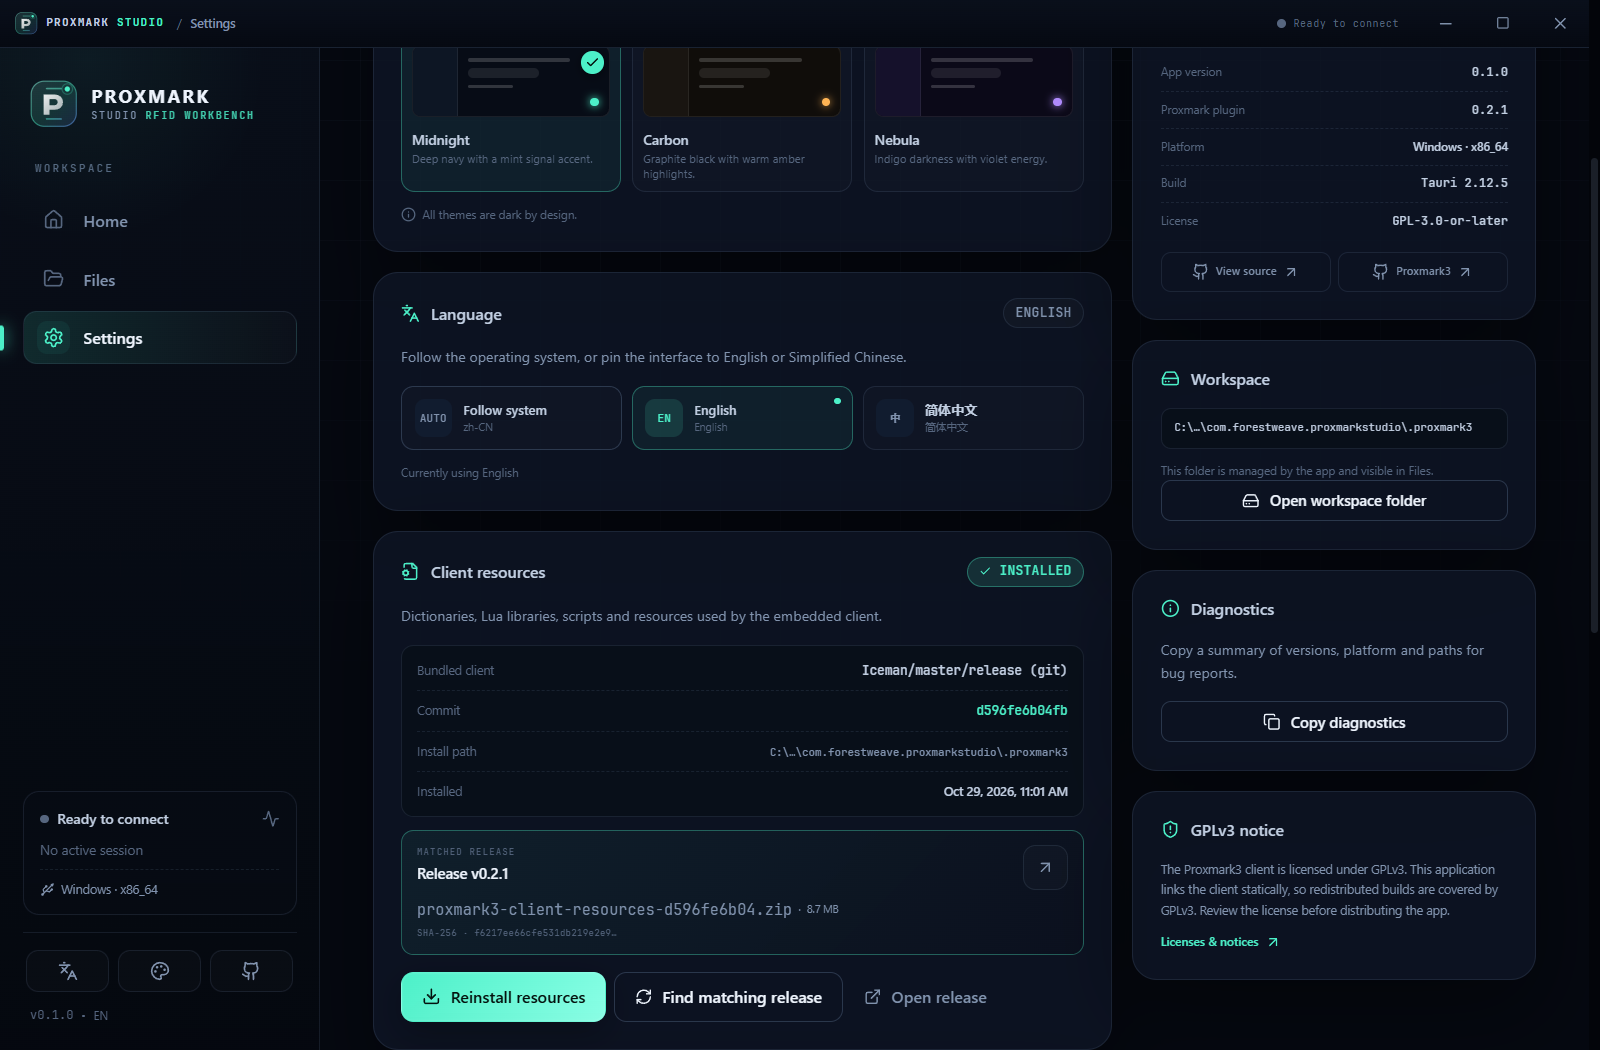
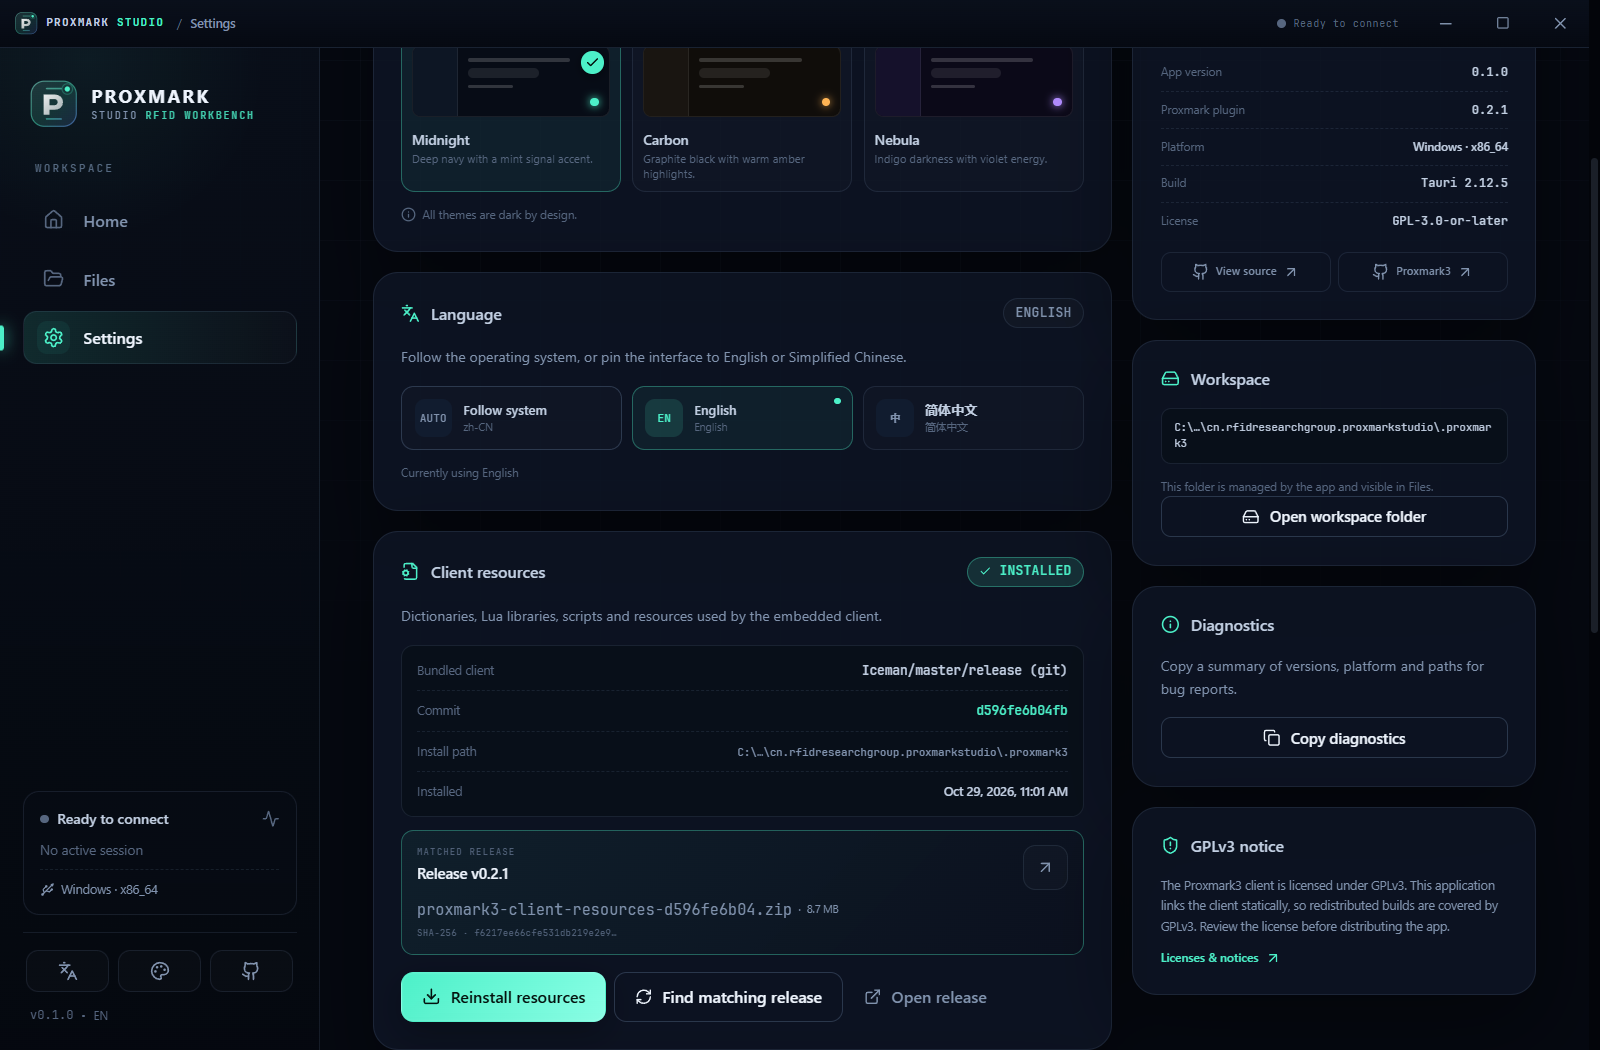
chore: use cn.rfidresearchgroup package identifier

diff --git a/src/views/HomeView.vue b/src/views/HomeView.vue
@@ -56,7 +56,6 @@ const toast = useToastStore()
 const method = ref<Method>('usb')
 const selectedUsb = ref('')
 const selectedSpp = ref('')
-const sppMac = ref('')
 const bleDevices = ref<BleDeviceInfo[]>([])
 const selectedBle = ref<BleDeviceInfo | null>(null)
 const scanning = ref(false)
@@ -101,7 +100,6 @@ const methods = computed(() => [
   },
 ])
 
-const isLinux = computed(() => platform.info.os === 'linux')
 const isConnected = computed(() => connection.isConnected)
 const connecting = computed(() => connection.status === 'connecting' && !connection.isConnected)
 const scanBusy = computed(() => scanning.value || connection.status === 'connecting')
@@ -134,12 +132,7 @@ const heroStateClass = computed(() => {
 
 const selectedPortValid = computed(() => {
   if (method.value === 'usb') return Boolean(selectedUsb.value)
-  if (method.value === 'spp') {
-    if (isLinux.value && sppMac.value.trim()) {
-      return /^([0-9a-fA-F]{2}:){5}[0-9a-fA-F]{2}$/.test(sppMac.value.trim())
-    }
-    return Boolean(selectedSpp.value)
-  }
+  if (method.value === 'spp') return Boolean(selectedSpp.value)
   return Boolean(selectedBle.value)
 })
 
@@ -253,11 +246,7 @@ async function connect() {
         : undefined
       await connection.connectBle(selectedBle.value, config)
     } else if (method.value === 'spp') {
-      if (isLinux.value && sppMac.value.trim()) {
-        await connection.connectSppMac(sppMac.value.trim().toUpperCase())
-      } else {
-        await connection.connectSpp(selectedSpp.value)
-      }
+      await connection.connectSpp(selectedSpp.value)
     }
   } catch {
     /* the store reports a toast and keeps lastError */
@@ -651,7 +640,7 @@ onUnmounted(() => {
                   :key="port.path"
                   class="device-option"
                   :class="{ 'device-option--selected': selectedSpp === port.path }"
-                  @click="selectedSpp = port.path; sppMac = ''"
+                  @click="selectedSpp = port.path"
                 >
                   <span class="device-option__icon device-option__icon--ble"><Bluetooth :size="17" /></span>
                   <span class="device-option__main">
@@ -672,19 +661,6 @@ onUnmounted(() => {
                 </div>
               </div>
 
-              <div v-if="isLinux" class="spp-mac">
-                <div class="spp-mac__label">
-                  <span class="mono">{{ settings.t('home.sppMac') }}</span>
-                  <span>{{ settings.t('home.sppMacHint') }}</span>
-                </div>
-                <input
-                  v-model="sppMac"
-                  class="input input--mono"
-                  :placeholder="settings.t('home.sppMacPlaceholder')"
-                  spellcheck="false"
-                  @input="selectedSpp = ''"
-                />
-              </div>
             </template>
 
             <footer v-if="methods.find((entry) => entry.id === method)?.available" class="connect-panel__foot">

diff --git a/src/i18n/en.ts b/src/i18n/en.ts
@@ -110,14 +110,11 @@ export const en = {
   'home.bleTx': 'Notify characteristic',
   'home.bleAuto': 'Auto-detect',
   'home.sppTitle': 'Bluetooth SPP',
-  'home.sppHint': 'Use a paired Bluetooth serial device, or connect through a BlueZ address on Linux.',
+  'home.sppHint': 'Use a paired Bluetooth serial device exposed as a COM / rfcomm port.',
   'home.sppEmpty': 'No paired serial devices',
   'home.sppEmptyHint': 'Pair the Proxmark in your system Bluetooth settings, then rescan.',
   'home.sppUnsupported': 'Bluetooth SPP is not available on this platform.',
   'home.sppUnsupportedBody': 'iOS does not expose the serial port profile to third-party apps, and this build has no SPP backend for this platform.',
-  'home.sppMac': 'BlueZ address',
-  'home.sppMacPlaceholder': 'AA:BB:CC:DD:EE:FF',
-  'home.sppMacHint': 'Linux only. The client connects directly through BlueZ.',
   'home.port': 'Port',
   'home.connect': 'Connect device',
   'home.disconnect': 'Disconnect',
@@ -168,7 +165,6 @@ export const en = {
   'home.paired': 'Paired',
   'home.bleBridge': 'BLE → TCP bridge',
   'home.bleBridgeNote': 'The client talks to a loopback bridge; BLE frames are forwarded transparently.',
-  'home.sppDirect': 'BlueZ transport',
   'home.deviceSummary': 'Session overview',
   'home.uptime': 'Connected for {time}',
   'home.noSession': 'Session details appear here once a device is connected.',

diff --git a/src/i18n/zh.ts b/src/i18n/zh.ts
@@ -117,9 +117,6 @@ export const zh: Record<TranslationKey, string> = {
   'home.sppEmptyHint': '请先在系统蓝牙设置中配对 Proxmark，然后重新扫描。',
   'home.sppUnsupported': '当前平台不支持蓝牙 SPP。',
   'home.sppUnsupportedBody': 'iOS 不向第三方应用开放串口协议，而此构建在当前平台也没有 SPP 后端。',
-  'home.sppMac': 'BlueZ 地址',
-  'home.sppMacPlaceholder': 'AA:BB:CC:DD:EE:FF',
-  'home.sppMacHint': '仅 Linux 可用，客户端会通过 BlueZ 直接连接。',
   'home.port': '端口',
   'home.connect': '连接设备',
   'home.disconnect': '断开连接',
@@ -170,7 +167,6 @@ export const zh: Record<TranslationKey, string> = {
   'home.paired': '已配对',
   'home.bleBridge': 'BLE → TCP 桥接',
   'home.bleBridgeNote': '客户端连接本地回环桥接，BLE 数据帧会被透明转发。',
-  'home.sppDirect': 'BlueZ 传输',
   'home.deviceSummary': '会话概览',
   'home.uptime': '已连接 {time}',
   'home.noSession': '连接设备后将在这里显示会话详情。',

diff --git a/src/stores/connection.ts b/src/stores/connection.ts
@@ -218,18 +218,6 @@ export const useConnectionStore = defineStore('connection', () => {
     }
   }
 
-  async function connectSppMac(mac: string) {
-    lastBleDevice.value = null
-    try {
-      const info = await openSession(`bt:${mac}`, 'spp', `SPP · ${mac}`)
-      toast.success(settings.t('home.connectedToast', { port: mac }))
-      return info
-    } catch (error) {
-      toast.error(settings.t('home.connectionFailed'), errorMessage(error))
-      throw error
-    }
-  }
-
   async function connectBle(bleDevice: BleDeviceInfo, config?: BleUartConfig) {
     if (isConnected.value) await disconnect()
     status.value = 'connecting'
@@ -351,7 +339,6 @@ export const useConnectionStore = defineStore('connection', () => {
     probeDevice,
     connectUsb,
     connectSpp,
-    connectSppMac,
     connectBle,
     disconnect,
     reconnect,

diff --git a/src/App.vue b/src/App.vue
@@ -10,10 +10,14 @@ import { isTauri } from '@/services/backend'
 
 const platform = usePlatformStore()
 const connection = useConnectionStore()
+const mobileUserAgent =
+  typeof navigator !== 'undefined' && /Android|iPhone|iPad|iPod/i.test(navigator.userAgent)
 
 // The window is frameless on desktop, so we draw our own chrome. Mobile
 // platforms have no decorations to replace and keep their full height.
-const frameless = computed(() => isTauri && platform.info.family === 'desktop')
+const frameless = computed(
+  () => isTauri && !mobileUserAgent && platform.info.family === 'desktop',
+)
 
 watchEffect(() => {
   if (typeof document === 'undefined') return

diff --git a/src/services/mockBackend.ts b/src/services/mockBackend.ts
@@ -11,7 +11,7 @@ import type {
   SerialPortInfo,
 } from './backend'
 
-const MOCK_ROOT = 'C:\\Users\\rfid\\AppData\\Roaming\\com.forestweave.proxmarkstudio\\.proxmark3'
+const MOCK_ROOT = 'C:\\Users\\rfid\\AppData\\Roaming\\cn.rfidresearchgroup.proxmarkstudio\\.proxmark3'
 const RELEASE_TAG = 'v0.2.1'
 const EXPECTED_COMMIT = 'd596fe6b04fb90356f04433eb82ff1ae354ada40'
 

diff --git a/src/components/ResizeHandles.vue b/src/components/ResizeHandles.vue
@@ -1,5 +1,15 @@
 <script setup lang="ts">
-import { getCurrentWindow, type ResizeDirection } from '@tauri-apps/api/window'
+import { getCurrentWindow } from '@tauri-apps/api/window'
+
+type ResizeDirection =
+  | 'East'
+  | 'North'
+  | 'NorthEast'
+  | 'NorthWest'
+  | 'South'
+  | 'SouthEast'
+  | 'SouthWest'
+  | 'West'
 
 const appWindow = getCurrentWindow()
 

diff --git a/src-tauri/gen/android/app/src/main/java/cn/rfidresearchgroup/proxmarkstudio/MainActivity.kt b/src-tauri/gen/android/app/src/main/java/cn/rfidresearchgroup/proxmarkstudio/MainActivity.kt
@@ -1,4 +1,4 @@
-package com.forestweave.proxmarkstudio
+package cn.rfidresearchgroup.proxmarkstudio
 
 import android.os.Bundle
 import androidx.activity.enableEdgeToEdge
@@ -9,3 +9,4 @@ class MainActivity : TauriActivity() {
     super.onCreate(savedInstanceState)
   }
 }
+

diff --git a/README.md b/README.md
@@ -44,7 +44,7 @@ ULTIMATE, ICOPVX, Proxmark5 and other Proxmark variants.
 | --- | --- | --- | --- | --- | --- |
 | USB serial | Yes | Yes | Yes | Not exposed by this build | Unsupported by iOS |
 | Bluetooth LE | Yes | Yes | Yes | Yes | Yes |
-| Bluetooth SPP | Yes (paired COM) | Yes (paired serial) | Yes (BlueZ / `bt:`) | Not exposed by this build | Unsupported by iOS |
+| Bluetooth SPP | Yes (paired COM) | Yes (paired serial) | Yes (paired rfcomm) | Not exposed by this build | Unsupported by iOS |
 | Share sheet | Reveal in Explorer | Reveal in Finder | Open folder | Yes | Yes |
 | Frameless desktop chrome | Yes | Yes | Yes | n/a | n/a |
 
@@ -180,8 +180,10 @@ bash scripts/setup-plugin.sh
 pnpm tauri dev          # or: pnpm tauri build
 ```
 
-On Linux the plugin's BlueZ build supports `bt:AA:BB:…` SPP addresses in
-addition to `/dev/rfcomm*` and USB CDC ports.
+On Linux, pair the device in the system Bluetooth settings and bind an rfcomm
+port (`/dev/rfcomm*`). The app lists it alongside USB CDC ports; the embedded
+client is built with Bluetooth transport support disabled, so SPP is handled
+through the OS serial layer.
 
 ### Android
 
@@ -229,9 +231,9 @@ support.
 | Download cache | `<app-data>/cache` |
 | App preferences | Local storage (`pm3-studio.*` keys) |
 
-`<app-data>` is `%APPDATA%\com.forestweave.proxmarkstudio` on Windows,
-`~/Library/Application Support/com.forestweave.proxmarkstudio` on macOS, and the
-XDG data directory on Linux.
+`<app-data>` is `%APPDATA%\cn.rfidresearchgroup.proxmarkstudio` on Windows,
+`~/Library/Application Support/cn.rfidresearchgroup.proxmarkstudio` on macOS,
+and the XDG data directory on Linux.
 
 ## Notes and limitations
 
